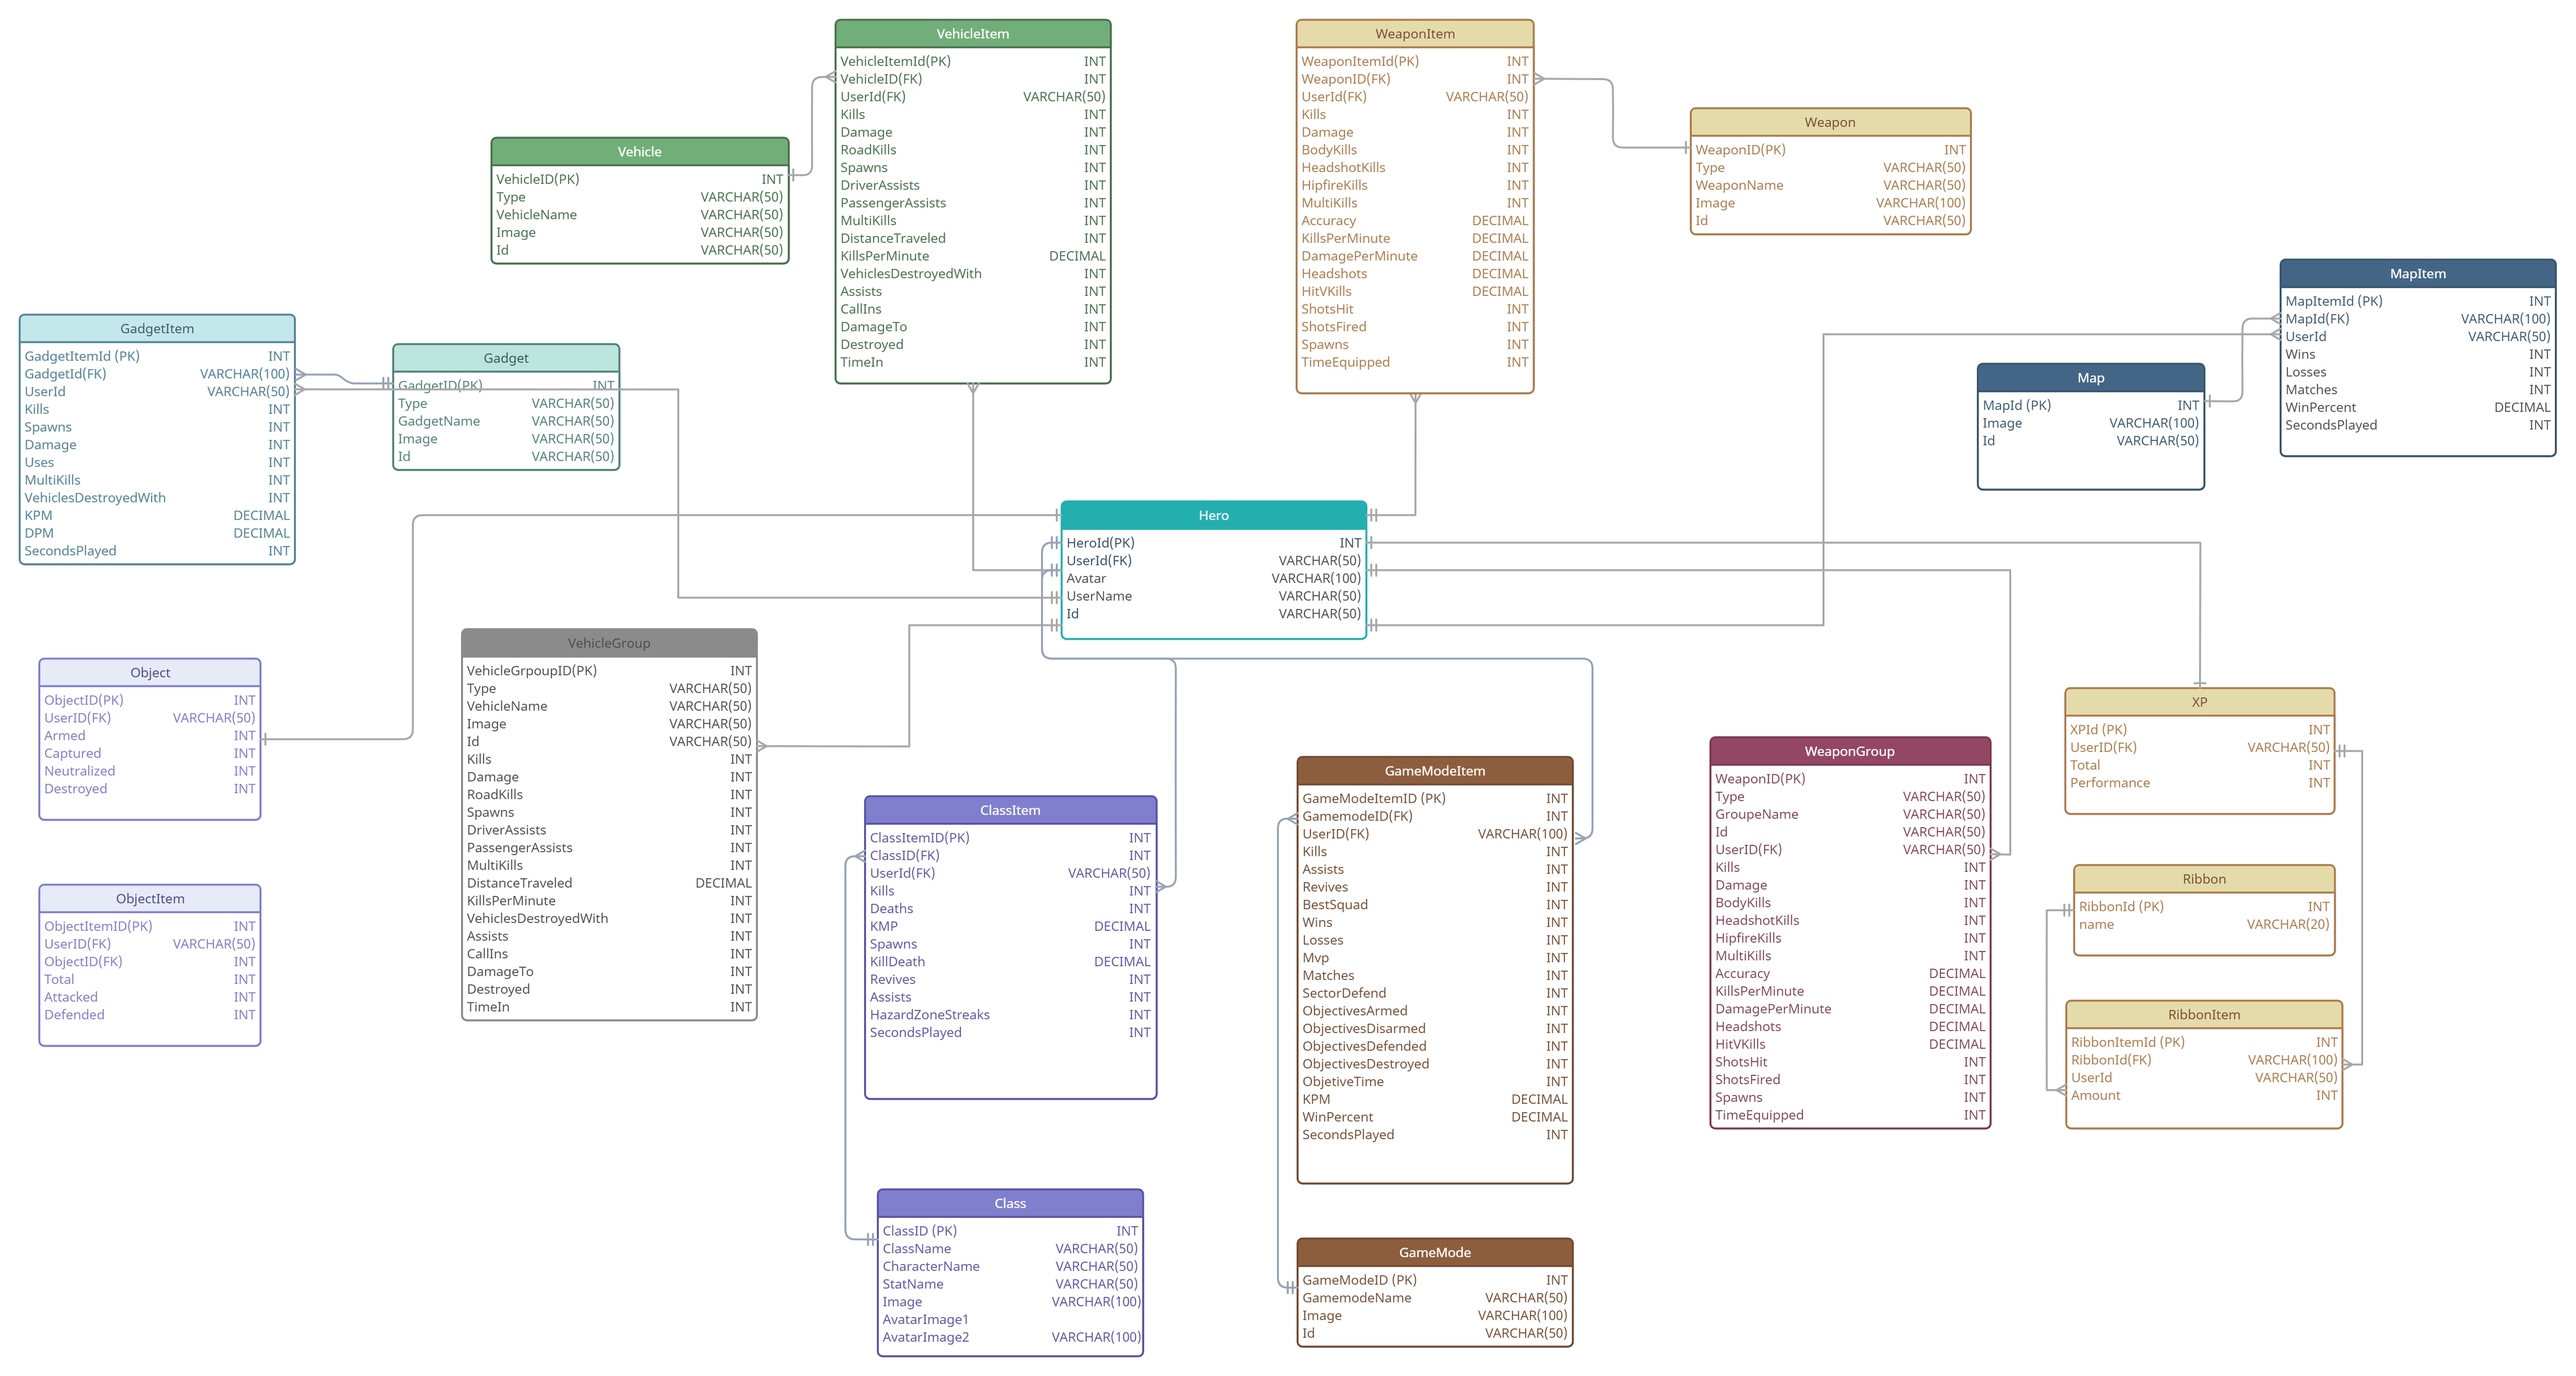
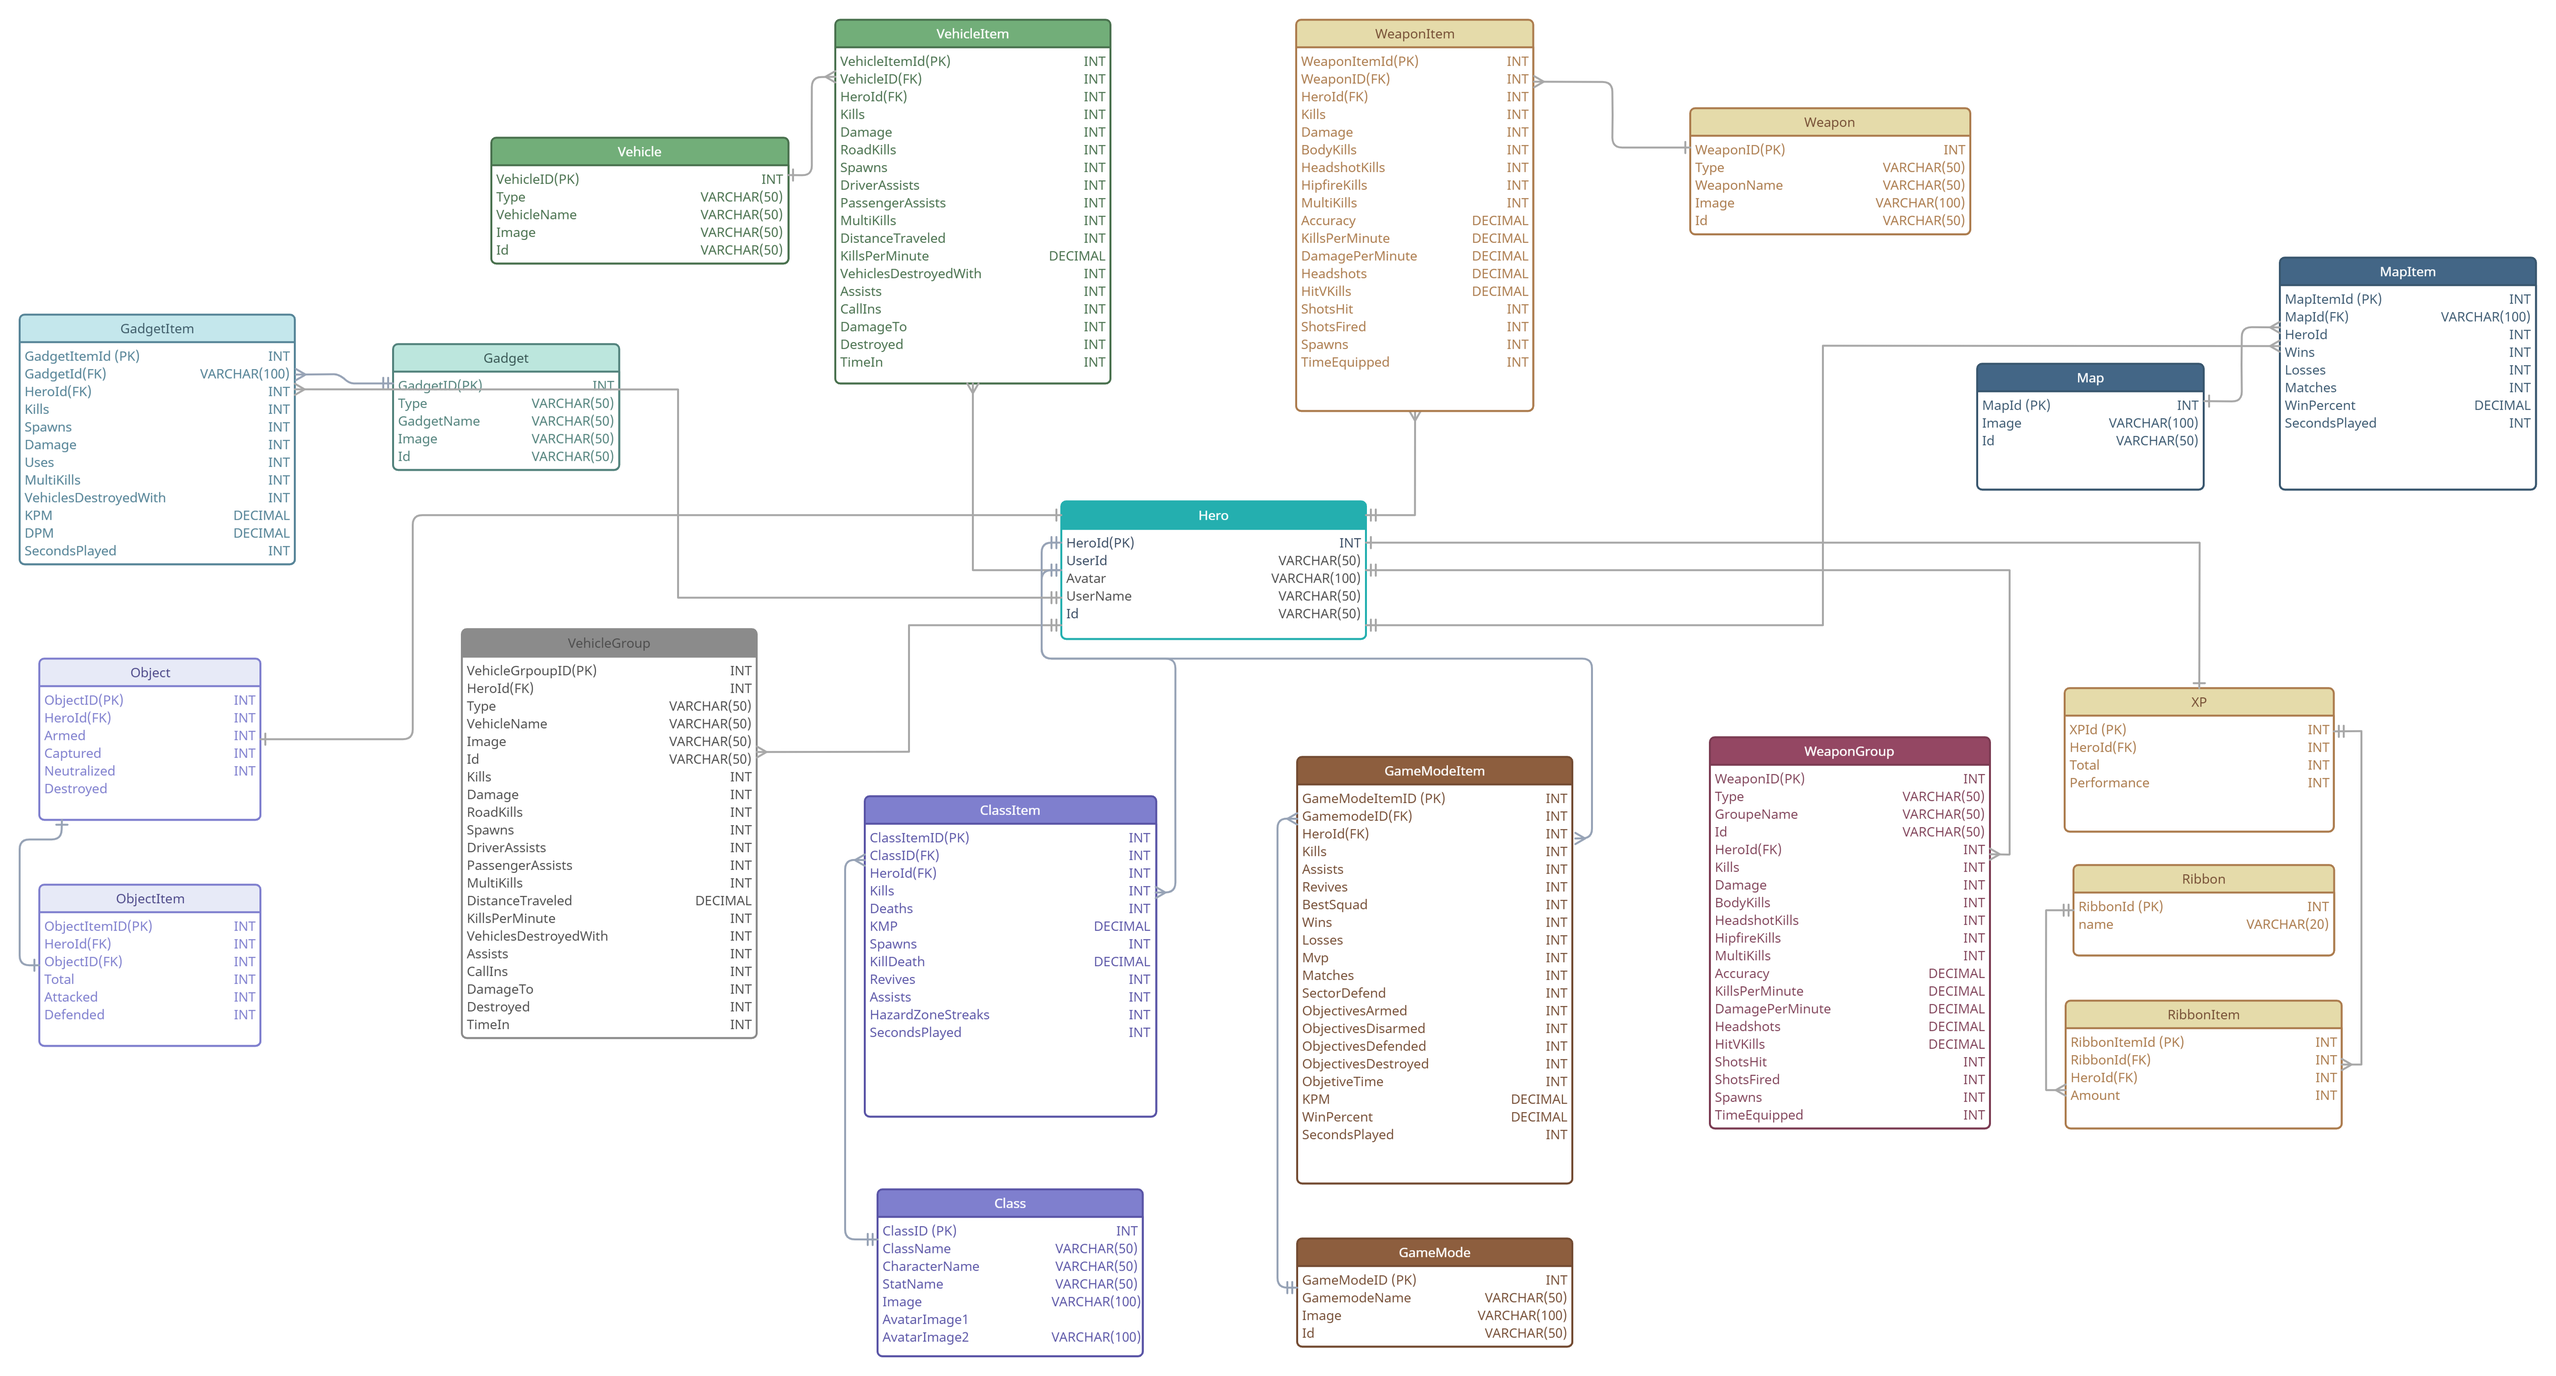
Update database design and queries

diff --git a/GAMEDATAHUB/Models/BF2042Model/HeroInfoModel.cs b/GAMEDATAHUB/Models/BF2042Model/HeroInfoModel.cs
@@ -78,6 +78,8 @@ namespace GAMEDATAHUB.Models.BF2042Model
 
         public List<GadgetModel> Gadgets;
 
+        public List<ObjectModel> Onject;
+
         public List<XpModel> XP;
 
     }
